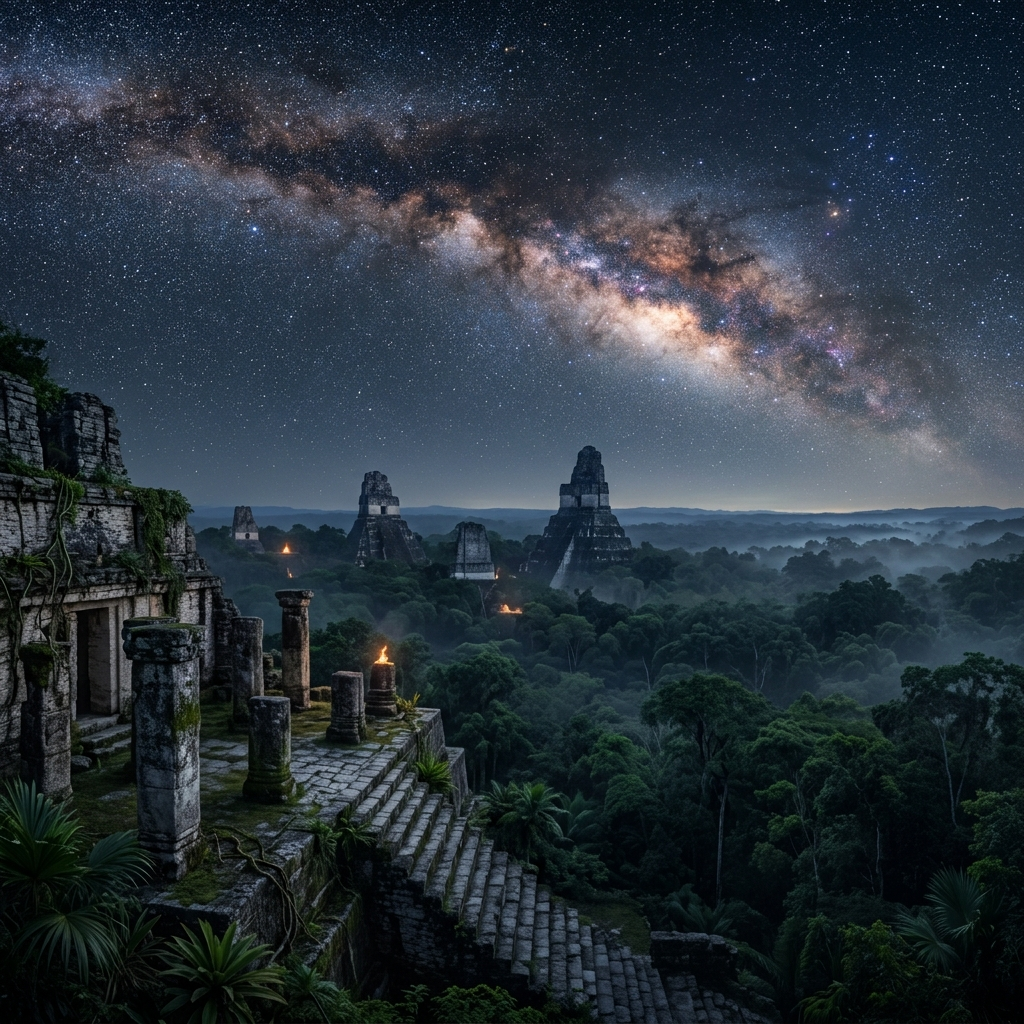
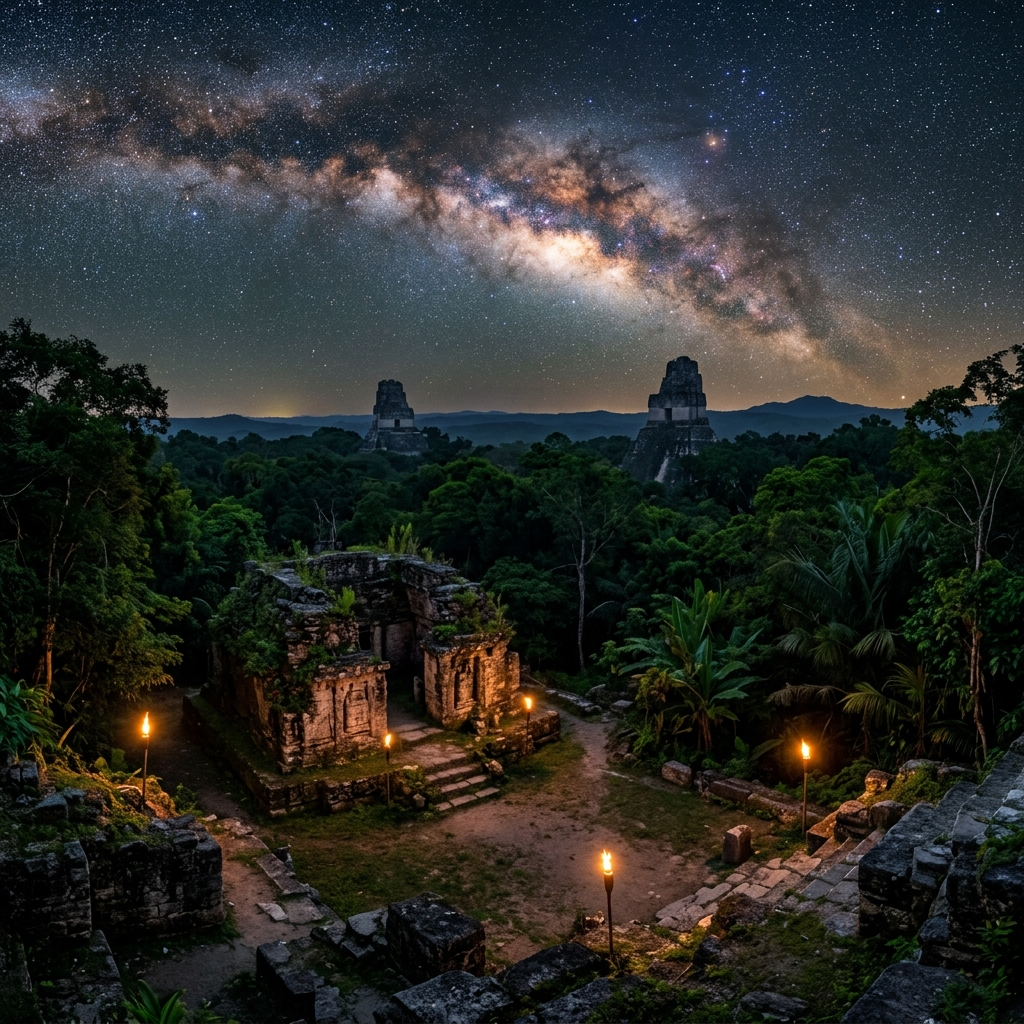
feat: new maya hub background, removed comets, redistributed nodes

diff --git a/app/hub/maya-astro/page.js b/app/hub/maya-astro/page.js
@@ -9,27 +9,27 @@ import { motion, AnimatePresence } from 'framer-motion';
 // ─── Módulos del curso ─────────────────────────────────────────────────────
 const MAYA_MODULES = [
   // Top row (Sky - Milky Way)
-  { id: 'maya_m9',  titleEs: 'Wakah Chan',        color: '#2980B9', link: '/course/maya_m9',  icon: '/assets/maya/maya_m9.png',  coords: { left: '15%', top: '20%' } },
-  { id: 'maya_m7',  titleEs: 'Venus',             color: '#8E44AD', link: '/course/maya_m7',  icon: '/assets/maya/maya_m7.png',  coords: { left: '40%', top: '15%' } },
-  { id: 'maya_m8',  titleEs: 'Eclipses',          color: '#111111', link: '/course/maya_m8',  icon: '/assets/maya/maya_m8.png',  coords: { left: '65%', top: '18%' } },
-  { id: 'maya_m10', titleEs: 'Pléyades',          color: '#8E44AD', link: '/course/maya_m10', icon: '/assets/maya/maya_m10.png', coords: { left: '88%', top: '30%' } },
+  { id: 'maya_m9',  titleEs: 'Wakah Chan',        color: '#2980B9', link: '/course/maya_m9',  icon: '/assets/maya/maya_m9.png',  coords: { left: '10%', top: '18%' } },
+  { id: 'maya_m7',  titleEs: 'Venus',             color: '#8E44AD', link: '/course/maya_m7',  icon: '/assets/maya/maya_m7.png',  coords: { left: '32%', top: '12%' } },
+  { id: 'maya_m8',  titleEs: 'Eclipses',          color: '#111111', link: '/course/maya_m8',  icon: '/assets/maya/maya_m8.png',  coords: { left: '55%', top: '15%' } },
   
   // Middle-Upper row (Horizon/Pyramid top)
-  { id: 'maya_m15', titleEs: 'Códice Dresde',     color: '#1A5F7A', link: '/course/maya_m15', icon: '/assets/maya/maya_m15.png', coords: { left: '25%', top: '35%' } },
-  { id: 'maya_m14', titleEs: 'Edzná Cenit',       color: '#F39C12', link: '/course/maya_m14', icon: '/assets/maya/maya_m14.png', coords: { left: '50%', top: '30%' } },
-  { id: 'maya_m4',  titleEs: 'Tzolk\'in',         color: '#4A90E2', link: '/course/maya_m4',  icon: '/assets/maya/maya_m4.png',  coords: { left: '75%', top: '35%' } },
+  { id: 'maya_m10', titleEs: 'Pléyades',          color: '#8E44AD', link: '/course/maya_m10', icon: '/assets/maya/maya_m10.png', coords: { left: '22%', top: '33%' } },
+  { id: 'maya_m15', titleEs: 'Códice Dresde',     color: '#1A5F7A', link: '/course/maya_m15', icon: '/assets/maya/maya_m15.png', coords: { left: '45%', top: '28%' } },
+  { id: 'maya_m14', titleEs: 'Edzná Cenit',       color: '#F39C12', link: '/course/maya_m14', icon: '/assets/maya/maya_m14.png', coords: { left: '70%', top: '32%' } },
+  { id: 'maya_m4',  titleEs: 'Tzolk\'in',         color: '#4A90E2', link: '/course/maya_m4',  icon: '/assets/maya/maya_m4.png',  coords: { left: '88%', top: '40%' } },
 
   // Middle-Lower row (Jungle/Ruins)
-  { id: 'maya_m11', titleEs: 'Palenque',          color: '#27AE60', link: '/course/maya_m11', icon: '/assets/maya/maya_m11.png', coords: { left: '12%', top: '55%' } },
-  { id: 'maya_m2',  titleEs: 'Kukulcán',          color: '#8E2B2B', link: '/course/maya_m2',  icon: '/assets/maya/maya_m2.png',  coords: { left: '38%', top: '50%' } },
-  { id: 'maya_m3',  titleEs: 'Haab',              color: '#D3882C', link: '/course/maya_m3',  icon: '/assets/maya/maya_m3.png',  coords: { left: '62%', top: '52%' } },
-  { id: 'maya_m13', titleEs: 'Uaxactún',          color: '#F39C12', link: '/course/maya_m13', icon: '/assets/maya/maya_m13.png', coords: { left: '85%', top: '55%' } },
+  { id: 'maya_m11', titleEs: 'Palenque',          color: '#27AE60', link: '/course/maya_m11', icon: '/assets/maya/maya_m11.png', coords: { left: '8%', top: '52%' } },
+  { id: 'maya_m2',  titleEs: 'Kukulcán',          color: '#8E2B2B', link: '/course/maya_m2',  icon: '/assets/maya/maya_m2.png',  coords: { left: '35%', top: '48%' } },
+  { id: 'maya_m3',  titleEs: 'Haab',              color: '#D3882C', link: '/course/maya_m3',  icon: '/assets/maya/maya_m3.png',  coords: { left: '60%', top: '52%' } },
+  { id: 'maya_m13', titleEs: 'Uaxactún',          color: '#F39C12', link: '/course/maya_m13', icon: '/assets/maya/maya_m13.png', coords: { left: '82%', top: '60%' } },
 
   // Bottom row (Foreground)
   { id: 'maya_m6',  titleEs: '7 Muñecas',         color: '#F1C40F', link: '/course/maya_m6',  icon: '/assets/maya/maya_m6.png',  coords: { left: '20%', top: '75%' } },
-  { id: 'maya_m1',  titleEs: 'El Caracol',        color: '#1A5F7A', link: '/course/maya_m1',  icon: '/assets/maya/maya_m1.png',  coords: { left: '45%', top: '70%' } },
-  { id: 'maya_m5',  titleEs: 'Rueda Calendárica', color: '#E65100', link: '/course/maya_m5',  icon: '/assets/maya/maya_m5.png',  coords: { left: '70%', top: '72%' } },
-  { id: 'maya_m12', titleEs: 'Copán',             color: '#E74C3C', link: '/course/maya_m12', icon: '/assets/maya/maya_m12.png', coords: { left: '90%', top: '78%' } },
+  { id: 'maya_m1',  titleEs: 'El Caracol',        color: '#1A5F7A', link: '/course/maya_m1',  icon: '/assets/maya/maya_m1.png',  coords: { left: '48%', top: '68%' } },
+  { id: 'maya_m5',  titleEs: 'Rueda Calendárica', color: '#E65100', link: '/course/maya_m5',  icon: '/assets/maya/maya_m5.png',  coords: { left: '72%', top: '75%' } },
+  { id: 'maya_m12', titleEs: 'Copán',             color: '#E74C3C', link: '/course/maya_m12', icon: '/assets/maya/maya_m12.png', coords: { left: '92%', top: '82%' } },
 ];
 
 // ─── Estrellas de fondo animadas ─────────────────────────────────────────
@@ -292,9 +292,8 @@ export default function MayaHub() {
         pointerEvents: 'none', zIndex: 0
       }} />
 
-      {/* Estrellas y cometas */}
+      {/* Estrellas de fondo */}
       <Stars />
-      <Comets />
 
       {/* Header UI - Botón Volver y Título */}
       <div style={{
